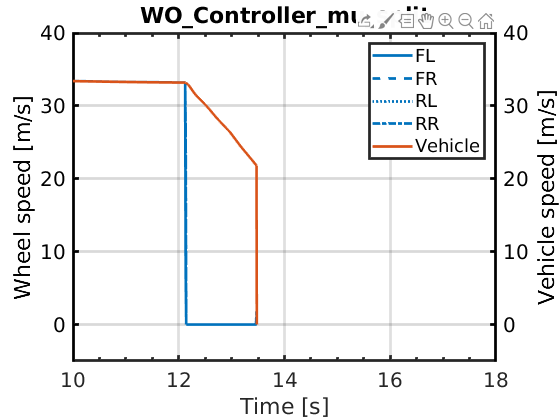
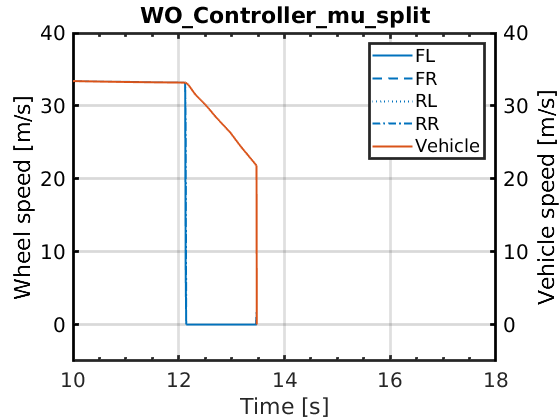
updated figures and scripts

diff --git a/NIKHIL_DATA/result_all.m b/NIKHIL_DATA/result_all.m
@@ -3,16 +3,20 @@ close all;
 clc;
 
 %% import data
-data = cell(1,6);
+data = cell(1,12);
 
 files = {'WO_Controller_1mu_Straight.CSV', ...
     'WO_Controller_Straight.CSV', ...
     'WO_Controller_mu_split.CSV', ...
-    'PID_1mu.CSV', ...
+    'W_Controller_1mu_Straight.CSV', ...
+    'W_Controller_Straight.CSV', ...
+    'W_Controller_mu_split.CSV', ... 
     'W_Controller_1mu_Straight_noise.CSV', ...
     'W_Controller_Straight_noise.CSV', ...
-    'W_Controller_mu_split_noise.CSV', ... 
-    'PID_mu_split.CSV'};
+    'W_Controller_mu_split_noise.CSV',...
+    'PID_1mu.CSV',...
+    'PID_mu_split.CSV',...
+    'PID_straight.CSV'};
 
 for i = 1:size(files,2)
     data{i} = importdata(files{i});
@@ -46,7 +50,7 @@ for i = 1:size(files,2)
     ylabel('Vehicle speed [m/s]');
     legend('FL','FR','RL','RR','Vehicle');
     set(gca,'LineWidth',2,'FontSize',15, 'YColor', 'k','XMinorTick','on');
-    set(findall(gca, 'Type', 'Line'),'LineWidth',2);
+    set(findall(gca, 'Type', 'Line'),'LineWidth',1.5);
     
     name = split(files{i}, '.');
     name = split(name(1), '_');
@@ -55,45 +59,4 @@ for i = 1:size(files,2)
     axis([10 18 -5 40]);
     ax = gca;
     ax.XTick = 10:2:18;
-end
-
-%% subplot
-figure(80);
-for i = 1:size(files,2)
-    FL = data{i}.data(:,1)*0.32;
-    FR = data{i}.data(:,2)*0.32;
-    RL = data{i}.data(:,3)*0.32;
-    RR = data{i}.data(:,4)*0.32;
-    vel = data{i}.data(:,5);
-    t  = data{i}.data(:,6);
-
-    subplot(2,4,i);
-    yyaxis left;
-    plot(t, FL);
-    hold on;
-    plot(t, FR);
-    plot(t, RL);
-    plot(t, RR);
-    xlabel('Time [s]');
-    ylabel('Wheel speed [m/s]');
-    legend('FL','FR','RL','RR');
-    hold off;
-    grid on;
-    set(gca, 'YColor', 'k');
-    axis([10 18 -5 40]);
-
-    yyaxis right;
-    plot(t, vel);
-    ylabel('Vehicle speed [m/s]');
-    legend('FL','FR','RL','RR','Vehicle');
-    set(gca,'LineWidth',2,'FontSize',15, 'YColor', 'k','XMinorTick','on');
-    set(findall(gca, 'Type', 'Line'),'LineWidth',2);
-    
-    name = split(files{i}, '.');
-    name = split(name(1), '_');
-    new_name = join(name, '\_');
-    title(sprintf('%s', new_name{1}));
-    axis([10 18 -5 40]);
-    ax = gca;
-    ax.XTick = 10:2:18;   
 end

diff --git a/NIKHIL_DATA/result_subplot.m b/NIKHIL_DATA/result_subplot.m
@@ -17,46 +17,6 @@ files = {'WO_Controller_1mu_Straight.CSV', ...
 for i = 1:size(files,2)
     data{i} = importdata(files{i});
 end
-%% plot
-for i = 1:size(files,2)
-    FL = data{i}.data(:,1)*0.32;
-    FR = data{i}.data(:,2)*0.32;
-    RL = data{i}.data(:,3)*0.32;
-    RR = data{i}.data(:,4)*0.32;
-    vel = data{i}.data(:,5);
-    t  = data{i}.data(:,6);
-
-    figure(i);
-    yyaxis left;
-    plot(t, FL);
-    hold on;
-    plot(t, FR);
-    plot(t, RL);
-    plot(t, RR);
-    xlabel('Time [s]');
-    ylabel('Wheel speed [m/s]');
-    legend('FL','FR','RL','RR');
-    hold off;
-    grid on;
-    set(gca, 'YColor', 'k');
-    axis([10 18 -5 40]);
-
-    yyaxis right;
-    plot(t, vel);
-    ylabel('Vehicle speed [m/s]');
-    legend('FL','FR','RL','RR','Vehicle');
-    set(gca,'LineWidth',2,'FontSize',15, 'YColor', 'k','XMinorTick','on');
-    set(findall(gca, 'Type', 'Line'),'LineWidth',2);
-    
-    name = split(files{i}, '.');
-    name = split(name(1), '_');
-    new_name = join(name, '\_');
-    title(sprintf('%s', new_name{1}));
-    axis([10 18 -5 40]);
-    ax = gca;
-    ax.XTick = 10:2:18;
-end
-
 %% subplot
 figure(80);
 for i = 1:size(files,2)

diff --git a/NIKHIL_DATA/result_comparison.m b/NIKHIL_DATA/result_comparison.m
@@ -50,7 +50,7 @@ hold off;
 grid on;
 axis([10 18 -5 40]);
 set(gca,'LineWidth',2,'FontSize',15, 'YColor', 'k','XMinorTick','on');
-set(findall(gca, 'Type', 'Line'),'LineWidth',2);
+set(findall(gca, 'Type', 'Line'),'LineWidth',1.5);
 title({'LQR, PID Controller Wheel Speed ';'comparison on high friction road'});
 axis([10 18 -5 40]);
 ax = gca;
